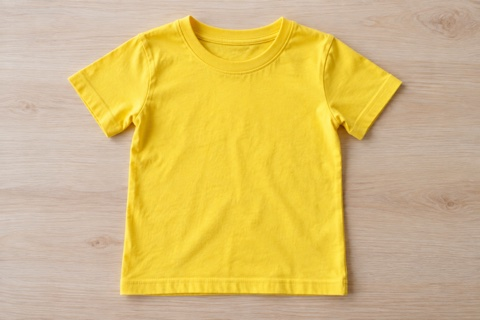
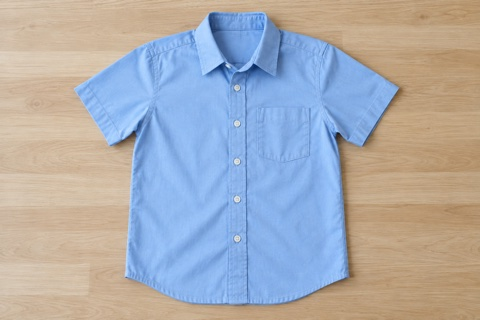
Refine shirt and moon pictures
The shirt and moon need clearer, more specific forms.

Replace them with a collared button-front shirt and crescent moon
against a dark sky.

diff --git a/js/version.js b/js/version.js
@@ -1,3 +1,3 @@
 // Shown on the settings screen, to check which version is running.
 // Increase it with every change that is deployed.
-export const VERSION = '0.18';
+export const VERSION = '0.19';
